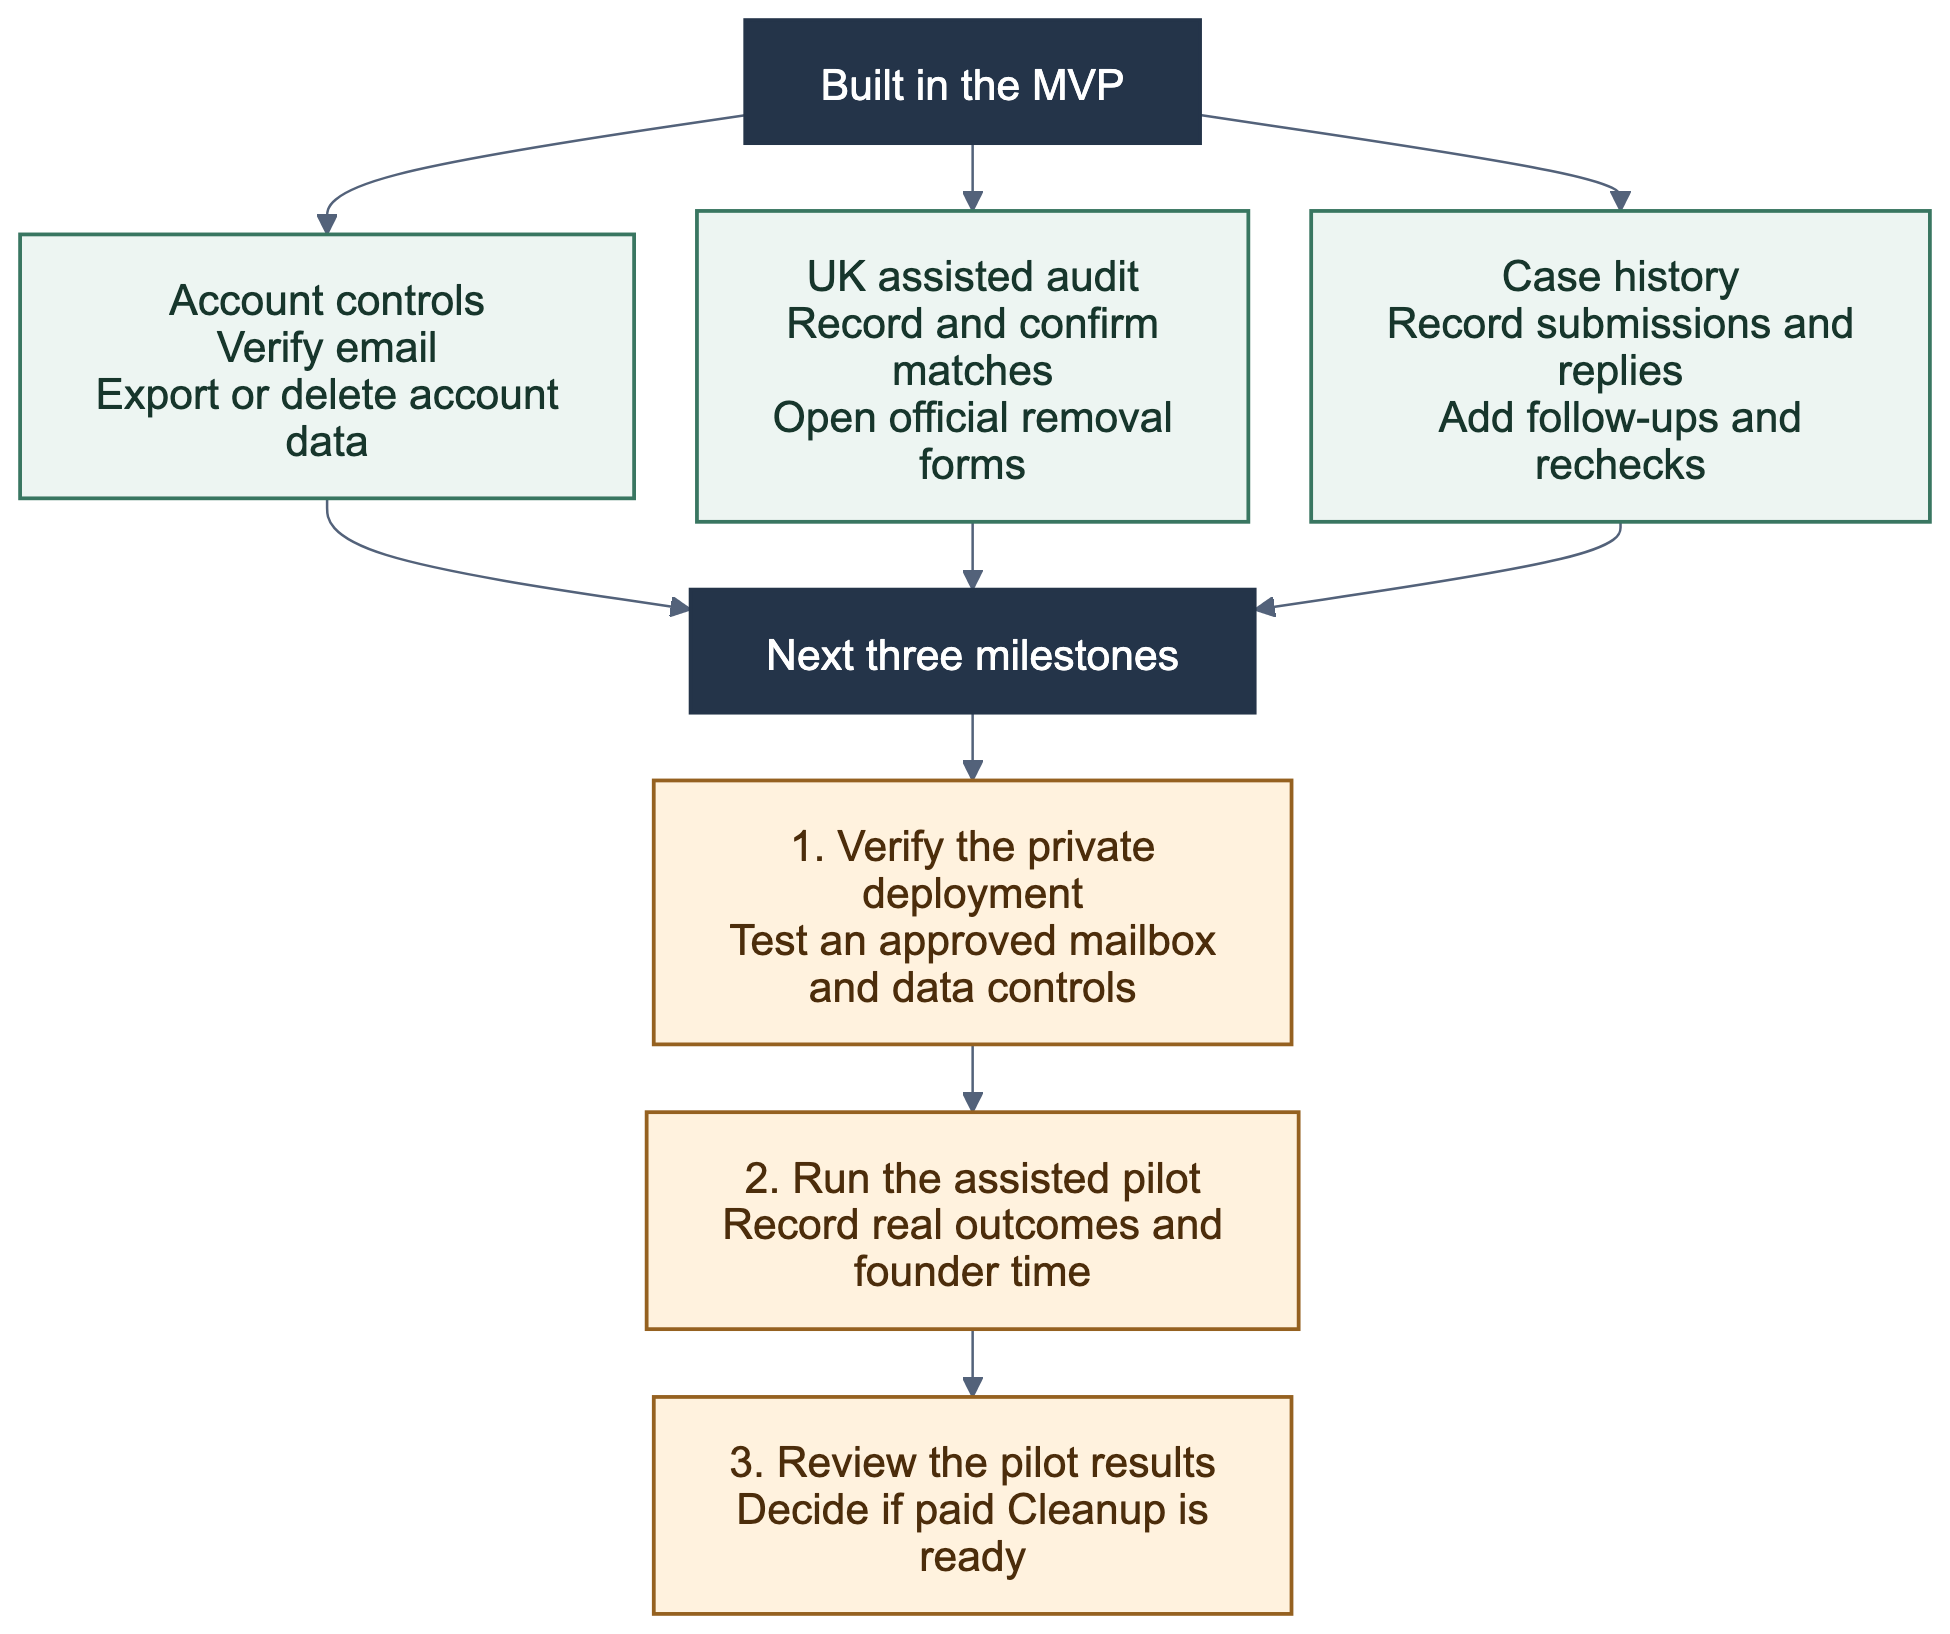
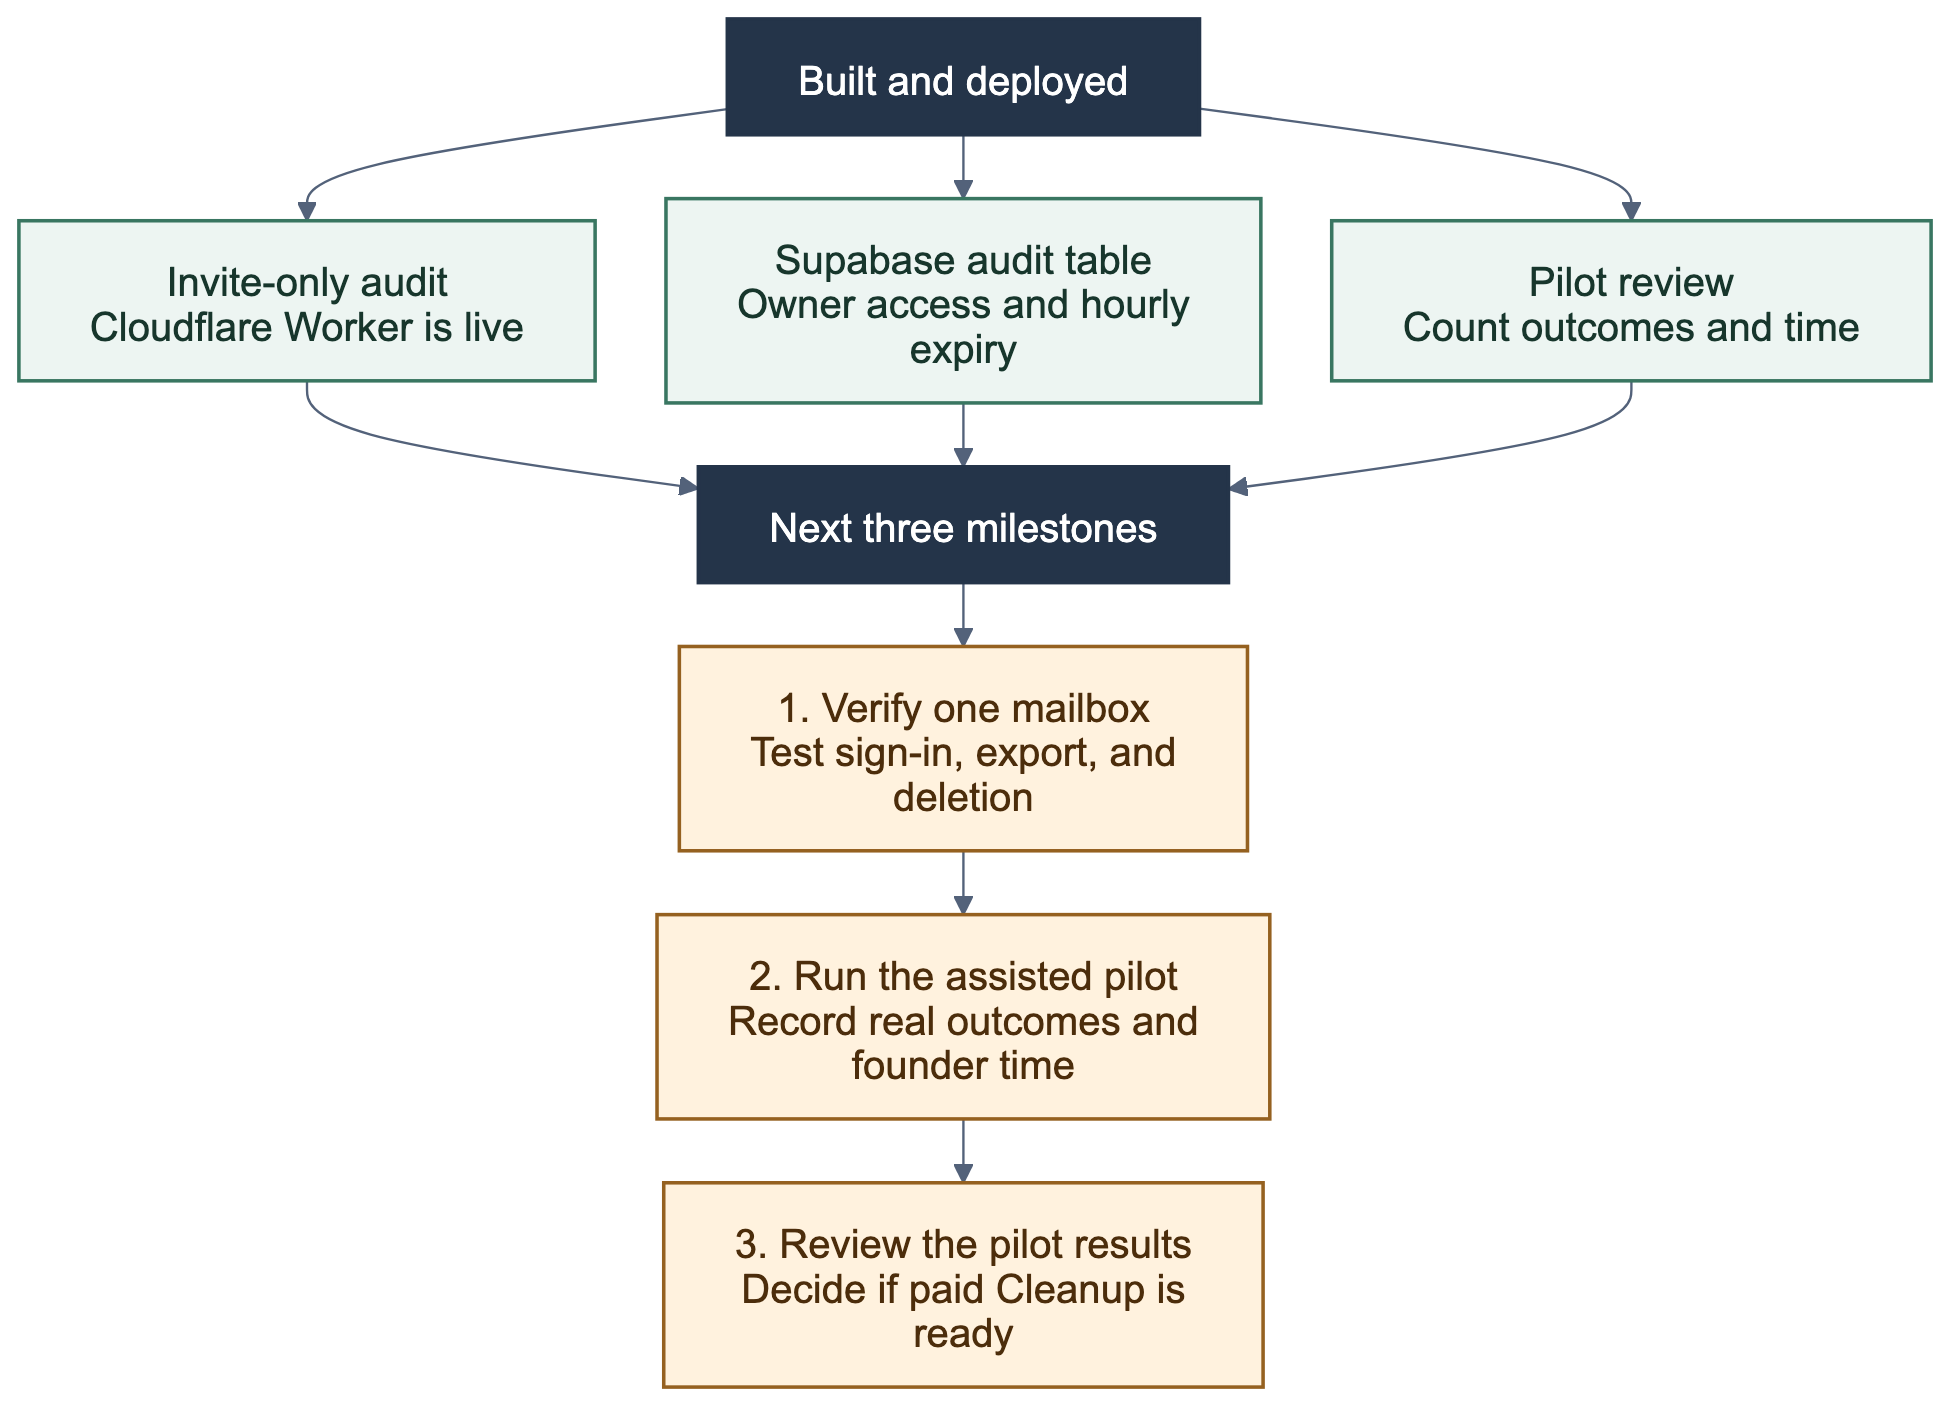
Verify the deployed pilot gate and update the handover

diff --git a/MVP/lib/live.ts b/MVP/lib/live.ts
@@ -48,7 +48,7 @@ export function liveConfig() {
 
 export type Config = Omit<NonNullable<ReturnType<typeof liveConfig>>, 'inviteOnly' | 'hibpKey'> & { inviteOnly?: boolean; hibpKey?: string };
 
-class ServiceError extends Error {
+export class ServiceError extends Error {
   readonly status: number;
 
   constructor(status: number) {
@@ -66,7 +66,7 @@ export function supabaseRequest(config: Config, request = fetch) {
     if (body !== undefined) headers.set('content-type', 'application/json');
     const response = await request(`${config.url}${path}`, {
       method, headers, body: body === undefined ? undefined : JSON.stringify(body),
-      redirect: 'error', signal: AbortSignal.timeout(8_000),
+      redirect: 'manual', signal: AbortSignal.timeout(8_000),
     });
     if (!response.ok) throw new ServiceError(response.status);
     const payload = await response.text();

diff --git a/MVP/test/live.test.ts b/MVP/test/live.test.ts
@@ -145,3 +145,15 @@ test('managed Supabase server secrets use the API key header and user sessions r
   assert.equal(await store.sendCode(identity.email), 'limited');
   assert.equal((await store.identify('customer-session'))?.id, identity.id);
 });
+
+test('Supabase requests reject redirects without forwarding keys to another origin', async () => {
+  let calls = 0;
+  const store = liveCheck({ ...config, inviteOnly: true }, async (input, options) => {
+    assert.equal(String(input), config.url + '/rest/v1/rpc/koverr_pilot_invited');
+    assert.equal(options?.redirect, 'manual');
+    calls++;
+    return new Response(null, { status: 307, headers: { location: 'https://elsewhere.example.test' } });
+  });
+  await assert.rejects(store.canParticipate('verified@example.test'), { status: 307 });
+  assert.equal(calls, 1);
+});

diff --git a/MVP/handover.md b/MVP/handover.md
@@ -1,45 +1,47 @@
 # Koverr MVP handover
 
-Updated 23 November 2026. Use the `MVP/` folder on the `MVP` branch of `AdrianKondrat/privacy_agent`. The previous session used `koverr_mvp/main` to deploy a separate Cloudflare Worker. The current branch contains the new work. Read the [development plan](../docs/07-validation-and-build-plan.md) before you continue.
+Updated 24 November 2026. Use the `MVP/` folder on the `MVP` branch of `AdrianKondrat/privacy_agent`. Read the [development plan](../docs/07-validation-and-build-plan.md) before you continue.
 
 ## What the MVP does
 
 1. The user signs in with an email code. Supabase verifies the address.
 2. The user selects the United Kingdom. They can select the types of information to check.
 3. The free audit gives instructions for 192.com and ukphonebook.com. The deeper audit adds Google Search.
-4. The user checks each site. Koverr records the result, the date, and the coverage gaps. Search terms go directly to the site.
-5. The user selects Mine, Not mine, or Unsure for a possible match. Koverr gives the official removal step for a confirmed match.
+4. The user checks each site. Koverr records the result, date, and coverage gaps. Search terms go directly to the site.
+5. The user reviews possible matches. Koverr gives the official removal step for a confirmed match.
 6. The user submits the request on the official site. They record the submission date in Koverr.
-7. The case history shows replies, follow-up dates, and public rechecks. A failed recheck has the status Inconclusive recheck.
-8. The user can export all account data or delete the account. The audit expires after 90 days.
+7. The case history shows replies, follow-up dates, and public rechecks. Failed rechecks stay inconclusive.
+8. The user can export their account data or delete the account. The audit expires after 90 days.
 
-The deeper audit also gives two optional opt-out routes. The user can track Experian marketing suppression and the open electoral register opt-out. Each route shows Holding not confirmed.
+The deeper audit also covers Experian marketing suppression and the open electoral register opt-out. Each optional route shows Holding not confirmed.
 
-## Verification and limits
+## Private deployment
 
-- All 33 automated tests passed. Astro diagnostics, the Node build, the static sample build, and the Docker Compose configuration check passed.
-- Chromium passed a local test with synthetic accounts. It checked the email code, match review, submission, reply, recheck, export, and deletion.
-- Embedded Postgres passed the owner access, expiry, deletion, and report checks. Check the scheduled job on Supabase during deployment.
+- The [invite-only audit](https://koverr-mvp.uceiond.workers.dev/app/audit/) runs on the existing `koverr-mvp` Worker.
+- The deployed Worker version is `b9a71794-7776-4f61-b5b8-4ecb7aa93733`. The release uses the `MVP` branch build.
+- Automatic builds from the earlier repository are off. Release from the `MVP` branch with Wrangler. [Deployment instructions](deploy/live-pilot.md)
+- Supabase has the audit table and the owner access rule. The hourly expiry job is active. Check its first run during live acceptance.
+- Cloudflare stores the publishable key and dedicated server secret. The audit has zero paid search calls.
 
-- The public source review found a company listing, an empty test search, and a source page that the test could not open. A live personal audit is pending. [Source review](pilot-preparation.md)
-- The checked UK routes are 192.com, ukphonebook.com, Google Search, Experian UK, and the open electoral register. The route check used official instructions.
-- The app has zero search API calls. The email code flow uses Supabase and Resend. The password tool uses the free Pwned Passwords service.
-- The Node app opens the audit from `/app/`. The existing static Cloudflare build continues to show the breach sample. The new audit needs a private Node host. [Deployment instructions](deploy/live-pilot.md)
-- The previous session set up Resend in the Supabase project `koverr_privacy_agent_alpha` in West EU. Live code delivery is pending.
-- Apply migration `20261123120000_exposure_audits.sql` before you enable the pilot. The new table stores owner-only audit records. The scheduled job removes expired records each hour.
-- Keep the launch list outside this test. Add only an approved test address to the pilot roster. Keep keys in the host secret store.
+## Verification and pilot results
+
+- All 35 automated tests passed. Astro diagnostics, the Worker build, the Node build, and the static sample build passed.
+- The live HTTPS check passed. It checked the audit form, health route, redirects, fictional sample, and landing signup isolation.
+- The deployed Worker rejected an uninvited fictional address through the live Supabase gate. The test sent no email.
+- The compiled Worker passed sign-in, audit write, export, and deletion with synthetic data. Real email delivery and signed-in checks are pending.
+- The real report returned zero invites, verified accounts, and audits at 10:06 GMT. It contains no participant outcomes. Paid Cleanup stays on hold.
 
 ## Next three milestones
 
-1. **Verify the private deployment.** Apply the new migration. Set the Supabase keys on an HTTPS host. Test code delivery, sign-in, export, deletion, and audit expiry with an approved mailbox.
-2. **Run the assisted pilot.** Get approval for the first participants. Watch them check the sources and send their own requests. Record real outcomes and founder time.
-3. **Review the pilot results.** Use the aggregate report. Check coverage, completed checks, confirmed matches, submissions, replies, rechecks, and time. Use those results to decide whether to offer paid Cleanup.
+1. **Verify one mailbox.** Get approval for a mailbox. Check live email delivery, sign-in, export, and deletion. Check the expiry job.
+2. **Run the assisted pilot.** Get approval for the participants and invitations. Record their check results, removal outcomes, and founder time.
+3. **Review the pilot results.** Run the report for the approved group. Review coverage, submissions, replies, rechecks, and time. Decide if paid Cleanup is ready.
 
-[Aggregate pilot report](supabase/reports/exposure-pilot.sql) · [Pilot preparation](pilot-preparation.md) · [Deployment instructions](deploy/live-pilot.md)
+[Aggregate pilot report](supabase/reports/exposure-pilot.sql) · [Assisted session and review instructions](pilot-preparation.md) · [Deployment instructions](deploy/live-pilot.md)
 
 ## Development diagram
 
-![Koverr MVP functions and the next three milestones](diagrams/mvp-development.svg)
+![Koverr MVP deployment and the next three milestones](diagrams/mvp-development.svg)
 
 [Mermaid source](diagrams/mvp-development.mmd) · [Editable Excalidraw file](diagrams/mvp-development.excalidraw) · [PNG](diagrams/mvp-development.png)
 

diff --git a/MVP/deploy/live-pilot.md b/MVP/deploy/live-pilot.md
@@ -1,8 +1,25 @@
 # Deploy the private assisted pilot
 
-Build the Node app from `privacy_agent/MVP`. The Cloudflare branch build publishes the static breach sample. Use a separate HTTPS host for the live pilot.
+Use the dedicated [koverr-mvp Worker](https://koverr-mvp.uceiond.workers.dev/app/audit/) for the invite-only pilot. Build it from `privacy_agent/MVP`. The repository's root Cloudflare configuration serves the static breach sample.
 
-## Set up the database and server
+## Release the pilot Worker
+
+1. Check out the `MVP` branch. Install the locked dependencies with `npm ci`.
+2. Check the production Supabase URL, app origin, and invite-only setting in [the Worker configuration](wrangler.pilot.jsonc).
+3. Keep both Supabase keys in the existing Worker's production settings. Store the server key as an encrypted secret.
+4. Run the build and the two deployment commands below. Use the generated configuration in all Wrangler commands.
+5. Run the HTTPS smoke test. Check that the audit is private and the fictional sample is available.
+
+```sh
+npm run build:pilot
+npx wrangler deploy --config dist/pilot-worker/server/wrangler.json --dry-run
+npx wrangler deploy --config dist/pilot-worker/server/wrangler.json
+node MVP/scripts/check-live-pilot.ts https://koverr-mvp.uceiond.workers.dev
+```
+
+The old Git build connection points to `koverr_mvp/main`. Its automatic builds are off. Use the manual release from `privacy_agent/MVP` until a Git build uses that branch.
+
+## Set up the database and the Node fallback
 
 1. Use the existing Supabase project in West EU. Check its migration log. Apply [the exposure audit migration](../supabase/migrations/20261123120000_exposure_audits.sql) if it is pending.
 2. For a new project, apply all migrations in timestamp order. Enable Supabase Cron. Schedule the existing OTP cleanup function. [Supabase Cron instructions](https://supabase.com/docs/guides/cron/quickstart)
@@ -17,7 +34,7 @@ docker compose --env-file /private/koverr-pilot.env -f MVP/deploy/compose.yaml c
 docker compose --env-file /private/koverr-pilot.env -f MVP/deploy/compose.yaml up -d --build --wait
 ```
 
-Caddy serves the audit paths and app assets. It redirects the pilot root to `/app/`. The landing signup endpoint is outside the pilot paths.
+Caddy serves the audit paths and app assets. It redirects the pilot root to `/app/`. The landing signup endpoint is outside the pilot paths. The existing Worker serves the live pilot.
 
 Check both scheduled jobs in the Supabase SQL editor. Confirm that each job is active. Check that the most recent run succeeded.
 
@@ -32,7 +49,7 @@ order by j.jobname, r.start_time desc nulls last;
 ## Verify one controlled account
 
 1. Get permission to use a test mailbox. Add its lowercase address as an invited test entry in Supabase.
-2. Run the public availability check. It sends no email code and uses no credentials.
+2. Run the public availability check. It uses only GET requests. It checks the invite-only form, the redirects, the sample, and the landing signup route.
 
 ```sh
 node MVP/scripts/check-live-pilot.ts https://pilot.example.com

diff --git a/docs/07-validation-and-build-plan.md b/docs/07-validation-and-build-plan.md
@@ -1,6 +1,6 @@
 # 07 — MVP development and validation plan
 
-Updated 23 November 2026. This is the current implementation plan. It supersedes the paid breach-check launch sequence in the [previous plan](07-validation-and-build-plan-2026-11-18.md). Where older strategy, PRD, architecture, pricing, or deployment documents conflict, use this plan and the [handover](../MVP/handover.md) for the next build.
+Updated 24 November 2026. This is the current implementation plan. It supersedes the paid breach-check launch sequence in the [previous plan](07-validation-and-build-plan-2026-11-18.md). Where older strategy, PRD, architecture, pricing, or deployment documents conflict, use this plan and the [handover](../MVP/handover.md) for the next build.
 
 ## Agreed goal and budget
 
@@ -23,7 +23,7 @@ The free audit covers a stated, limited set of public sources. It does not searc
 9. Track submission, replies, follow-ups, and rechecks. Separate source removal, search-result removal, and marketing suppression.
 10. Show dated outcomes and unresolved cases. Offer periodic rechecks only after the pilot proves value and the search budget supports them.
 
-App development uses the `MVP/` folder on `privacy_agent/MVP`. The `main` branch serves the landing page. The standalone repository holds the earlier deployment. The first controlled audit uses an individually approved pilot address. It does not need a shared login or a launch-list import.
+App development uses the `MVP/` folder on `privacy_agent/MVP`. The `main` branch serves the landing page. The pilot Worker uses a build from `privacy_agent/MVP`. The older standalone repository remains linked with automatic builds off. The first controlled audit uses an individually approved pilot address. It does not need a shared login or a launch-list import.
 
 ## Status of the first three milestones
 
@@ -35,7 +35,7 @@ App development uses the `MVP/` folder on `privacy_agent/MVP`. The `main` branch
 
 ## Next three milestones
 
-1. Deploy the private Node app and verify one controlled account. Check the new migration, email delivery, access control, and data deletion.
+1. Verify one controlled account on the private Worker. Check email delivery, access control, and data deletion.
 2. Run the assisted audit with a small approved group. Record source coverage, request steps, outcomes, and time.
 3. Review the aggregate evidence before you decide whether to offer paid Cleanup. Check the audit, removal, and outcome gates below.
 
